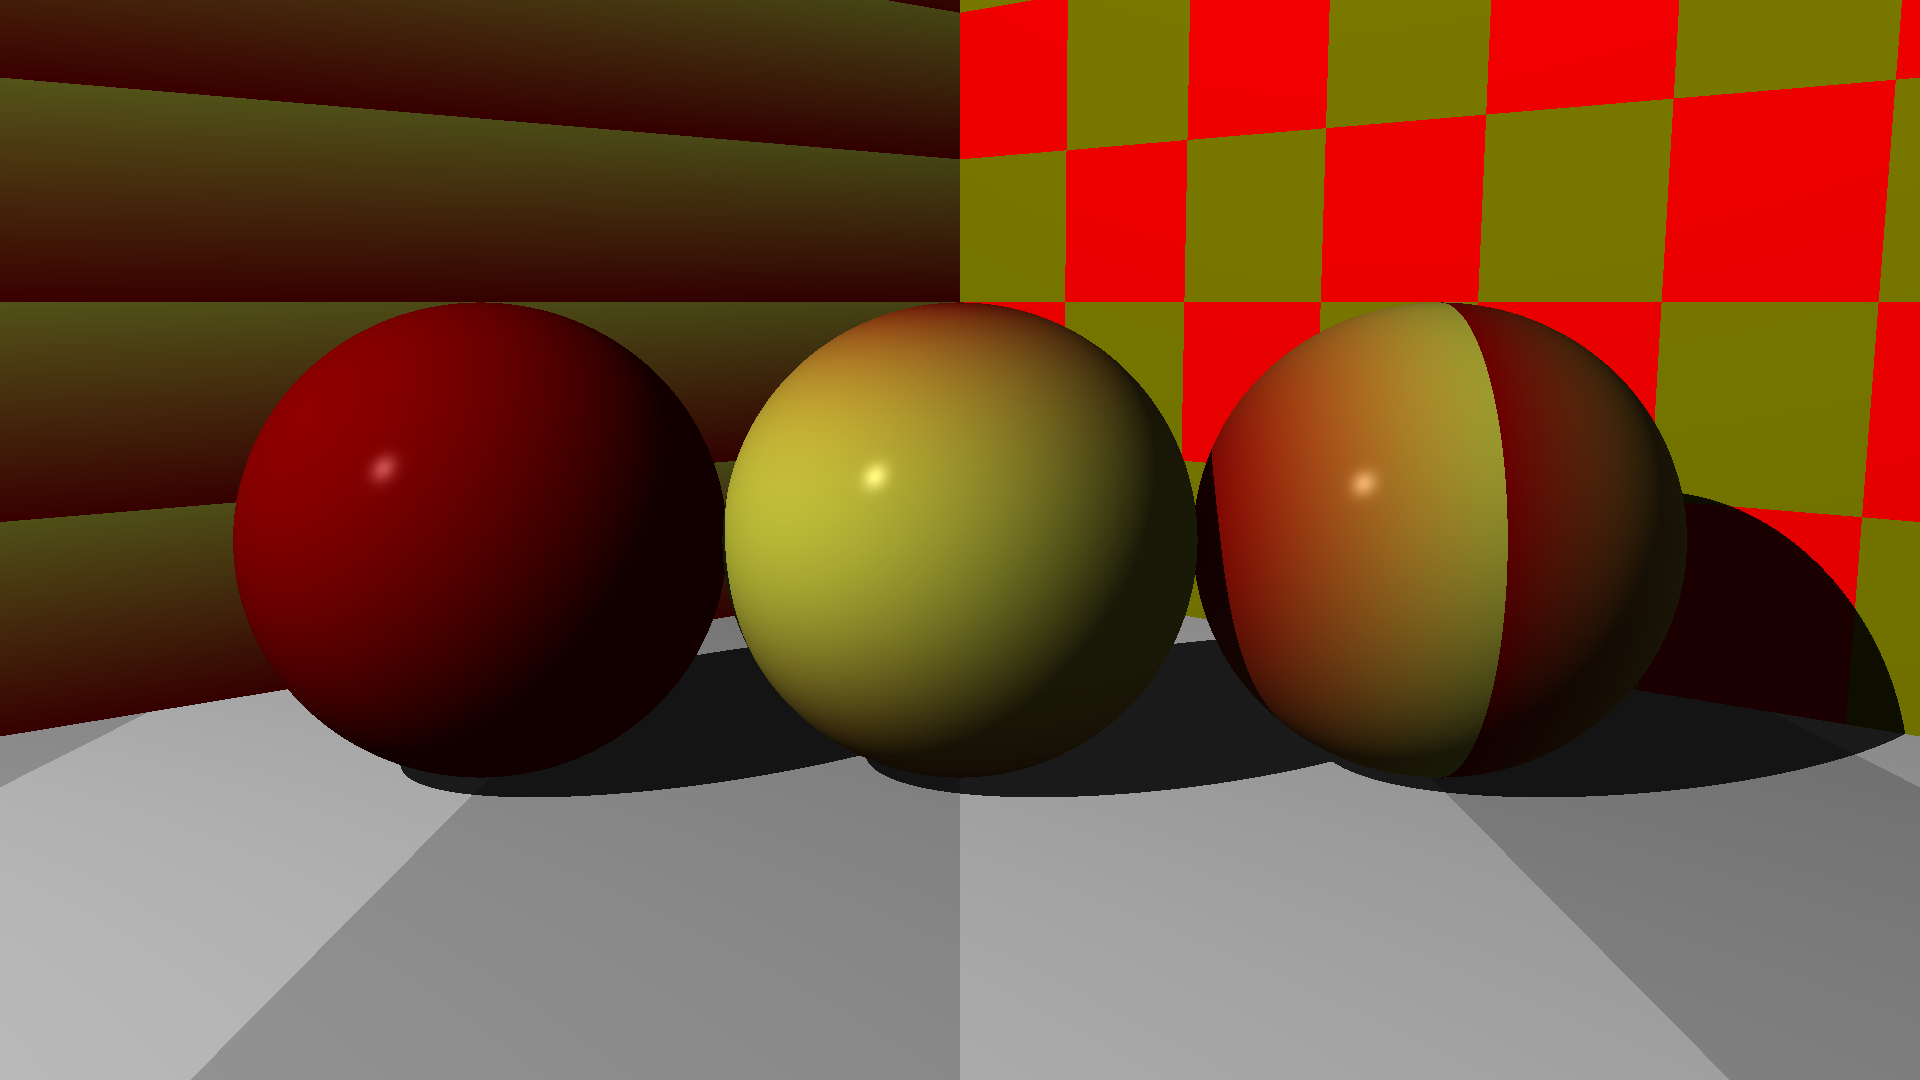
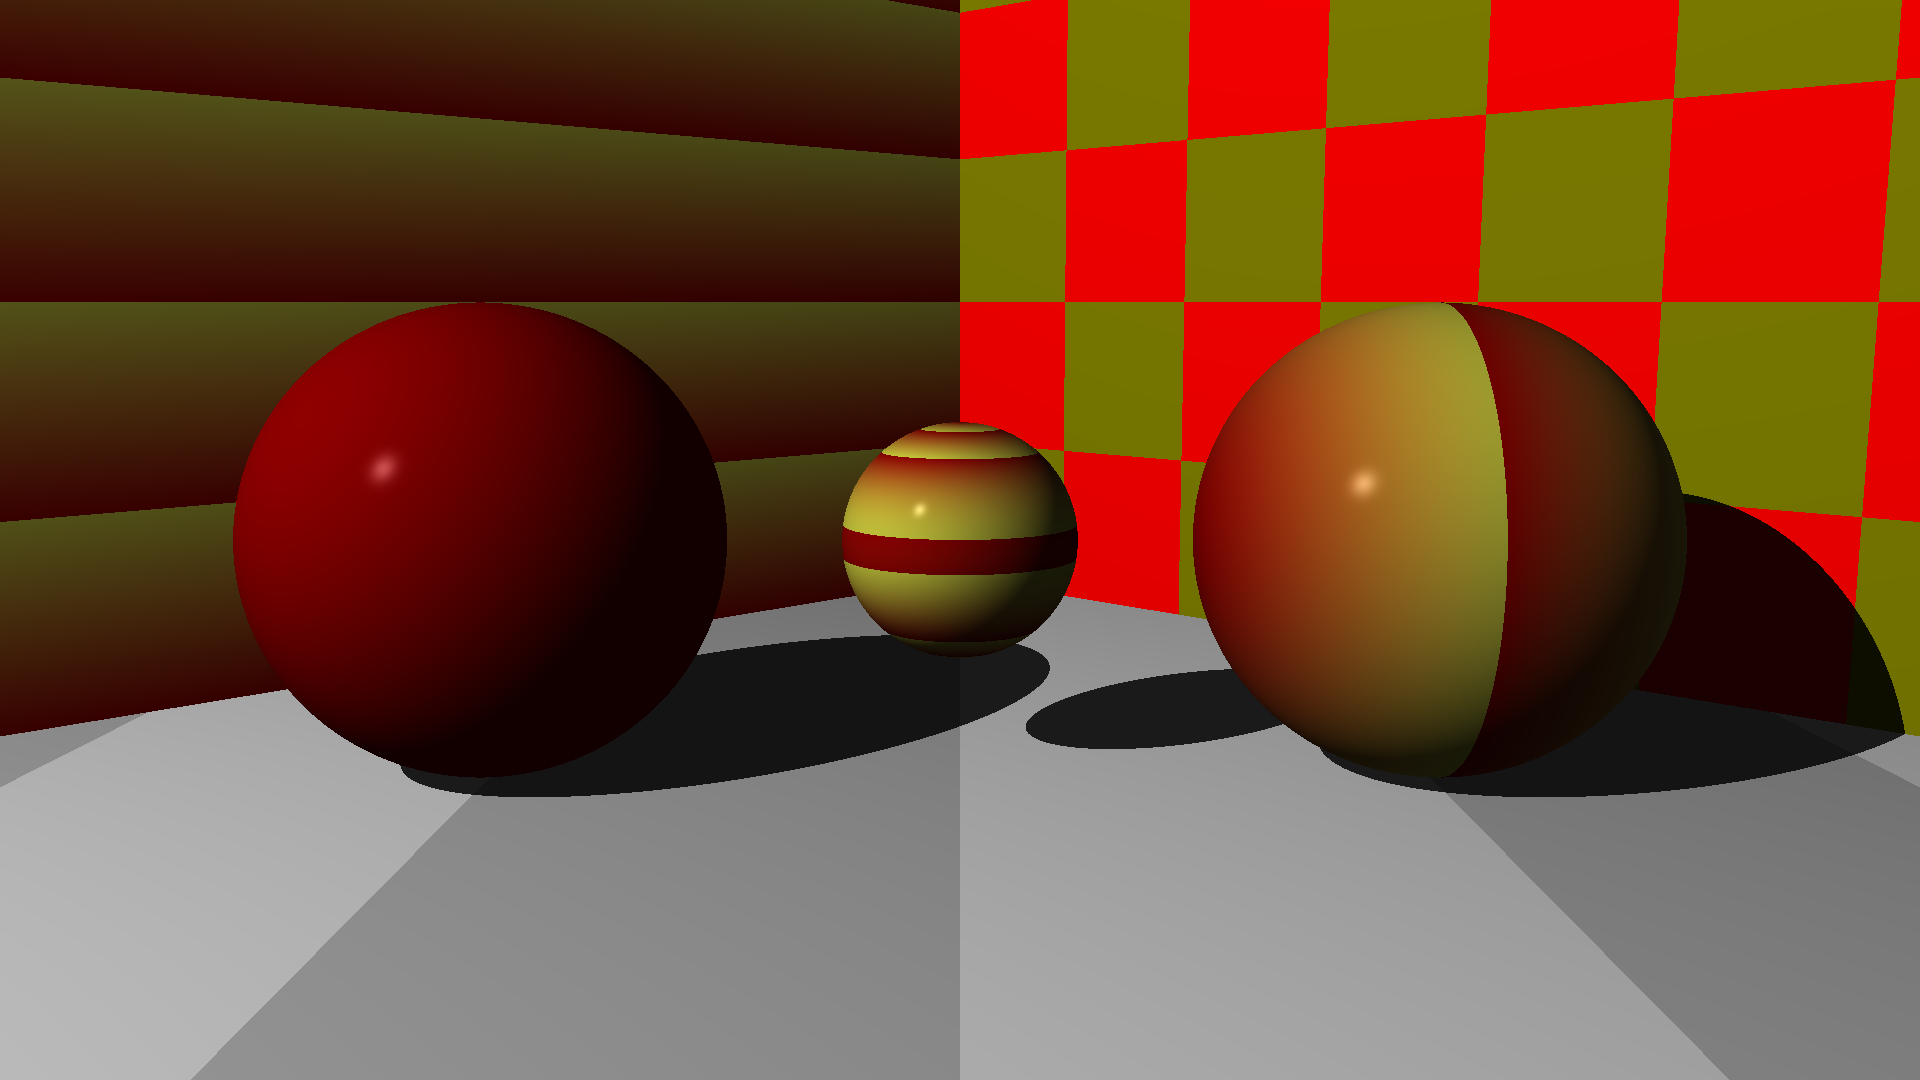
tinkering with scene 5

Changed region(s): [[0.375, 0.275, 0.6875, 0.7639]]

diff --git a/scene_5.cc b/scene_5.cc
@@ -34,35 +34,23 @@ scene scene_5(cli const& cli) noexcept {
     plane right_wall{tform4::translate({0, 0, 5}) * rot_2 * rot_3,
                      material{.pattern = pattern{checker2d_pattern{{1, 0, 0}, {.5, .5, 0}}}}};
 
-    sphere left{tform4::translate({-2, 1, 0})
-                //            * scale(.33f, .33f, .33f)
-                ,
-                material{.pattern = pattern{ring_pattern{
-                             {.7, 0, 0}, {1, 1, .3},
-                             //                                                 scale(.33, .33, .33)
-                         }},
-                         .diffuse = .7f,
-                         .specular = .3f}};
-    sphere center{tform4::translate({0, 1, 0})
-                  //                           * scale(.5, .5, .5)
-                  ,
+    sphere left{
+        tform4::translate({-2, 1, 0}),
+        material{.pattern = pattern{ring_pattern{{.7, 0, 0}, {1, 1, .3}, scale(.33, .33, .33)}},
+                 .diffuse = .7f,
+                 .specular = .3f}};
+    sphere center{tform4::translate({0, .5, 0}) * scale(.5, .5, .5),
                   material{.pattern = pattern{radial_gradient_pattern{
-                               {.7, 0, 0}, {1, 1, .3},
-                               //                                    scale(.5, .5, .5)
-                           }},
+                               {.7, 0, 0}, {1, 1, .3}, rot_3 * scale(.75, .75, .75)}},
                            .diffuse = .7f,
                            .specular = .3f}};
 
-    sphere right{
-        tform4::translate({2, 1, 0})
-        //            * scale(.5, .5, .5)
-        ,
-        material{.pattern = pattern{gradient_pattern{
-                     {.7, 0, 0}, {1, 1, .3},
-                     //                                                     scale(.5, .5, .5)
-                 }},
-                 .diffuse = .7f,
-                 .specular = .3f}};
+    sphere right{tform4::translate({2, 1, 0}), material{.pattern = pattern{gradient_pattern{
+                                                            {.7, 0, 0},
+                                                            {1, 1, .3},
+                                                        }},
+                                                        .diffuse = .7f,
+                                                        .specular = .3f}};
 
     std::vector<shape> shapes;
     shapes.reserve(8);
